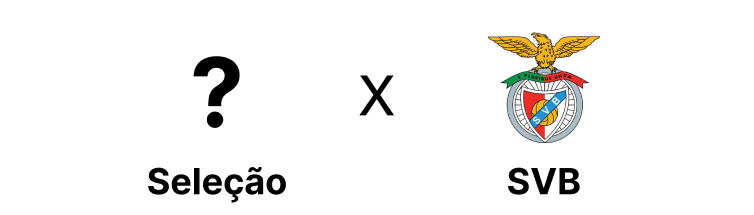
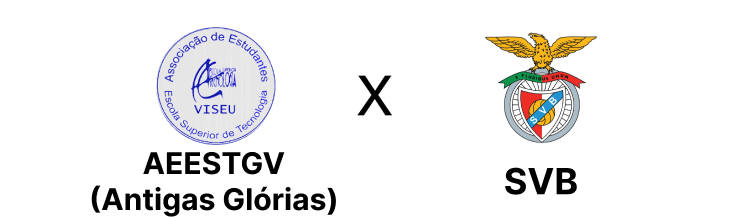
alteracao imagem

diff --git a/calendario.html b/calendario.html
@@ -78,7 +78,7 @@
                         </div>
                         <div class="col-md-4">
                             <h6>Dia-9-"Algarve"</h6>
-                            <img src="imgs/lagoa.png" alt="lagoa" data-toggle="modal" data-target="#modalLagoa2">
+                            <img src="imgs/estombarenses.png" alt="lagoa" data-toggle="modal" data-target="#modalLagoa2">
                         </div>
                         <div class="col-md-4">
                             <h6>Dia-21</h6>
@@ -112,7 +112,7 @@
             <div class="modal-dialog">
                 <div class="modal-content">
                     <div class="modal-header">
-                        <h5 class="modal-title" id="modalCeloricenseLabel">?</h5>
+                        <h5 class="modal-title" id="modalCeloricenseLabel"> A Definir</h5>
                         <button type="button" class="close" data-dismiss="modal" aria-label="Close">
                             <span aria-hidden="true">&times;</span>
                         </button>
@@ -128,7 +128,7 @@
             <div class="modal-dialog">
                 <div class="modal-content">
                     <div class="modal-header">
-                        <h5 class="modal-title" id="modalSelecaoLabel">?</h5>
+                        <h5 class="modal-title" id="modalSelecaoLabel">A Definir</h5>
                         <button type="button" class="close" data-dismiss="modal" aria-label="Close">
                             <span aria-hidden="true">&times;</span>
                         </button>
@@ -176,7 +176,7 @@
             <div class="modal-dialog">
                 <div class="modal-content">
                     <div class="modal-header">
-                        <h5 class="modal-title" id="modalChavesLabel">?</h5>
+                        <h5 class="modal-title" id="modalChavesLabel">A Definir</h5>
                         <button type="button" class="close" data-dismiss="modal" aria-label="Close">
                             <span aria-hidden="true">&times;</span>
                         </button>
@@ -192,13 +192,13 @@
             <div class="modal-dialog">
                 <div class="modal-content">
                     <div class="modal-header">
-                        <h5 class="modal-title" id="modalLagoa1Label">?</h5>
+                        <h5 class="modal-title" id="modalLagoa1Label"> A Definir</h5>
                         <button type="button" class="close" data-dismiss="modal" aria-label="Close">
                             <span aria-hidden="true">&times;</span>
                         </button>
                     </div>
                     <div class="modal-body">
-                        <img src="imgs/lagoa.png" class="img-fluid" alt="lagoa">
+                        <img src="imgs/lagoa.png" class="img-fluid" alt="estombarenses">
                     </div>
                 </div>
             </div>
@@ -208,13 +208,13 @@
             <div class="modal-dialog">
                 <div class="modal-content">
                     <div class="modal-header">
-                        <h5 class="modal-title" id="modalLagoa2Label">?</h5>
+                        <h5 class="modal-title" id="modalLagoa2Label">A Definir</h5>
                         <button type="button" class="close" data-dismiss="modal" aria-label="Close">
                             <span aria-hidden="true">&times;</span>
                         </button>
                     </div>
                     <div class="modal-body">
-                        <img src="imgs/lagoa.png" class="img-fluid" alt="lagoa">
+                        <img src="imgs/estombarenses.png" class="img-fluid" alt="lagoa">
                     </div>
                 </div>
             </div>
